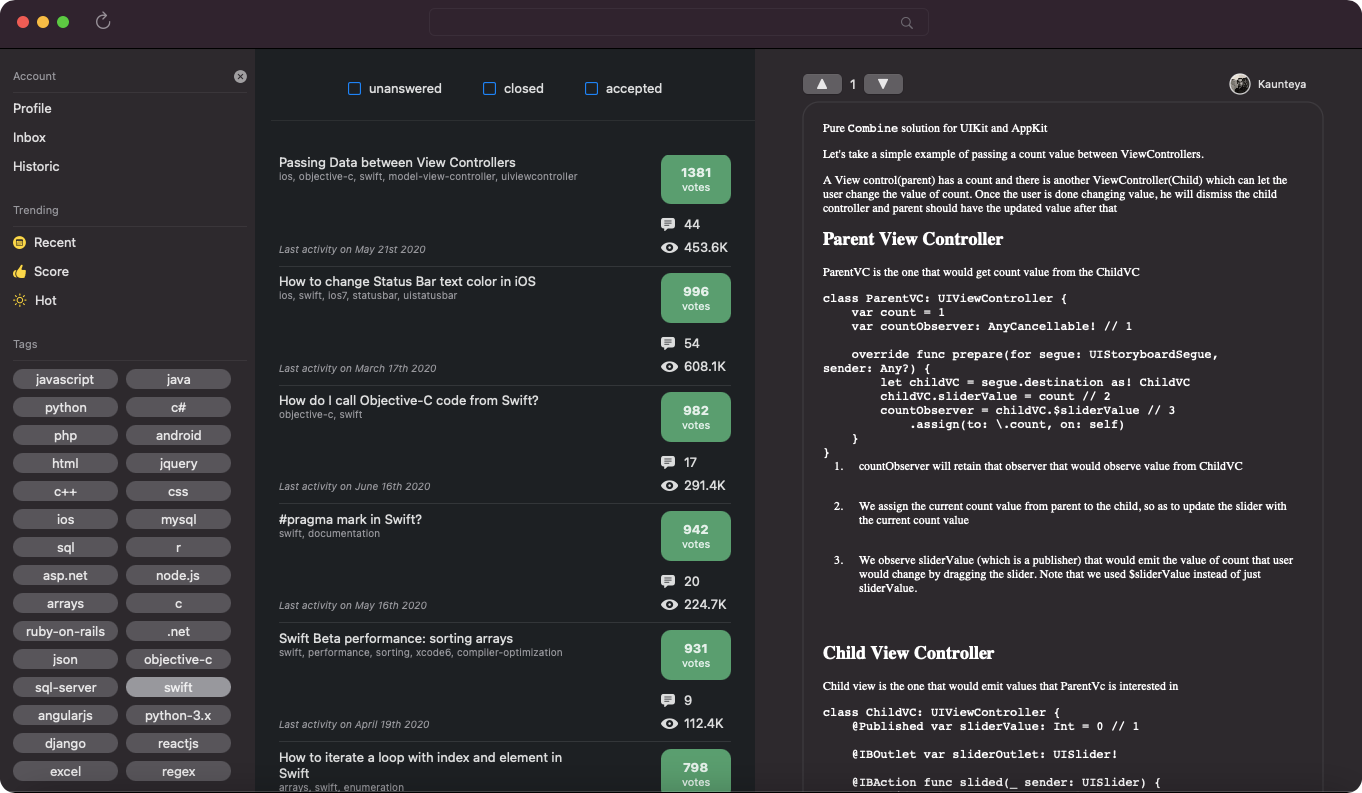
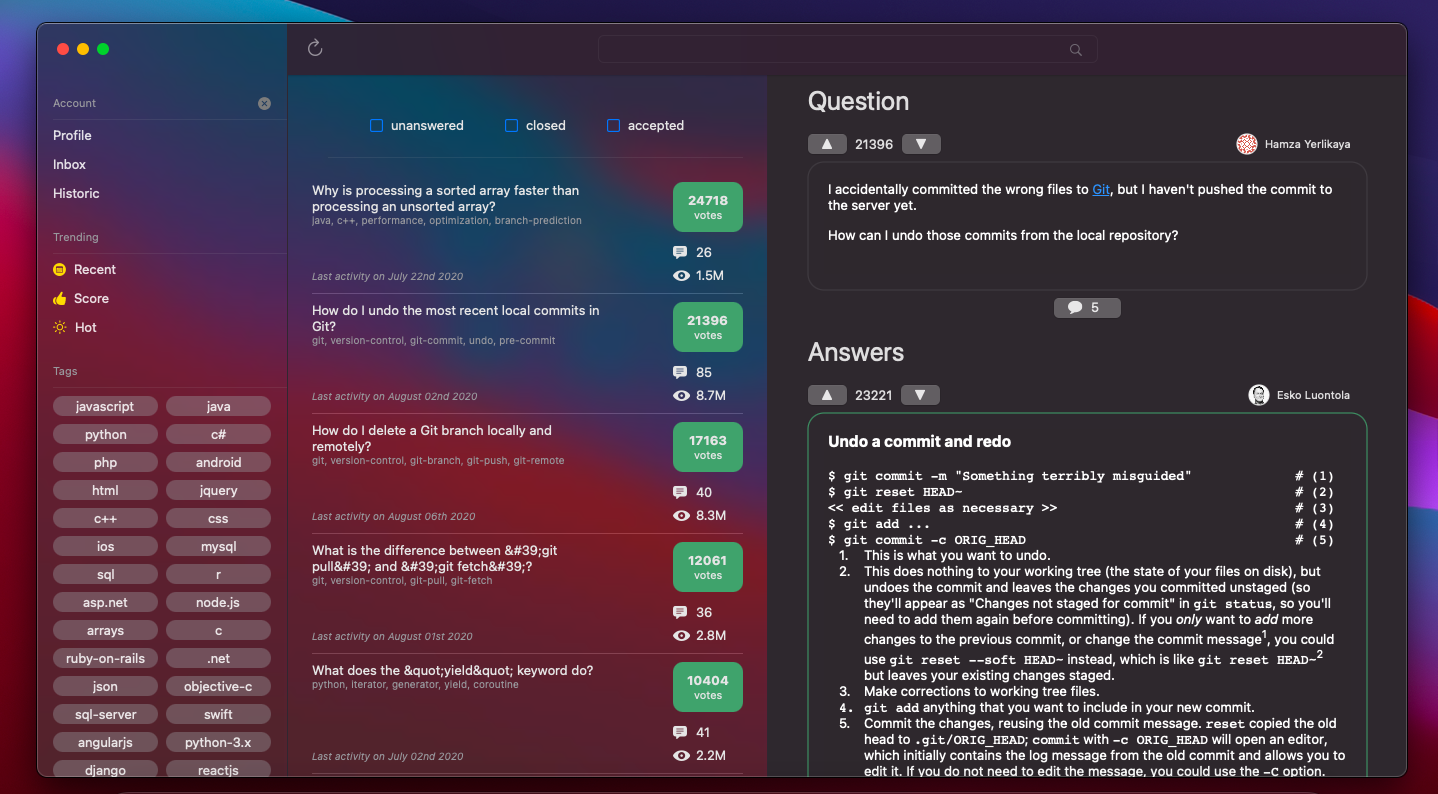
improve html styling

diff --git a/StackIT/Views/QuestionsSummaryViews/QuestionsSummaryView.swift b/StackIT/Views/QuestionsSummaryViews/QuestionsSummaryView.swift
@@ -58,7 +58,7 @@ extension QuestionsSummaryView {
                             .onTapGesture {
                                 viewManager.fetchAnswersSubject.send(.answers(question: questionSummary, .active))
                             }
-                    }.buttonStyle(PlainButtonStyle())
+                    }
                 }
             }.padding(.top)
             
@@ -68,7 +68,7 @@ extension QuestionsSummaryView {
                     Button {
                         viewManager.fetchQuestionsSubject.send(viewManager.fetchQuestionsSubject.value.updatePaging())
                     } label: {
-                        Text("Next page")
+                        Text("Next page").foregroundColor(Color.white)
                     }.buttonStyle(BorderlessButtonStyle())
                     Spacer()
                 }.padding()

diff --git a/StackIT/Views/Webview.swift b/StackIT/Views/Webview.swift
@@ -56,7 +56,8 @@ extension NSTextFieldRepresentable {
             if let attributedString = try? NSMutableAttributedString(data: data,
                                                               options: options,
                                                               documentAttributes: nil) {
-                attributedString.addAttributes([.backgroundColor: NSColor(named: "StackITCode")!],
+                attributedString.addAttributes([.backgroundColor: NSColor(named: "StackITCode")!,
+                                                ],
                                                range: NSMakeRange(0, attributedString.length))
                 textField.attributedStringValue = attributedString
             }

diff --git a/StackIT/Extensions/String.swift b/StackIT/Extensions/String.swift
@@ -9,6 +9,6 @@ import Foundation
 
 extension String {
     func addStyling() -> String {
-        return "<html><style>html {font-size: 1em;color: white}</style>" + self
+        return "<html><style>html {font-size: 1.1em;color: white; font-family: -apple-system} pre {background: lightgray}</style>" + self
     }
 }

diff --git a/StackIT/Views/QuestionsSummaryViews/QuestionsSummaryRow.swift b/StackIT/Views/QuestionsSummaryViews/QuestionsSummaryRow.swift
@@ -56,6 +56,6 @@ struct QuestionSummaryRow: View {
             }
             
             Divider()
-        }.opacity(isSelected ? 0.4: 1)
+        }
     }
 }
